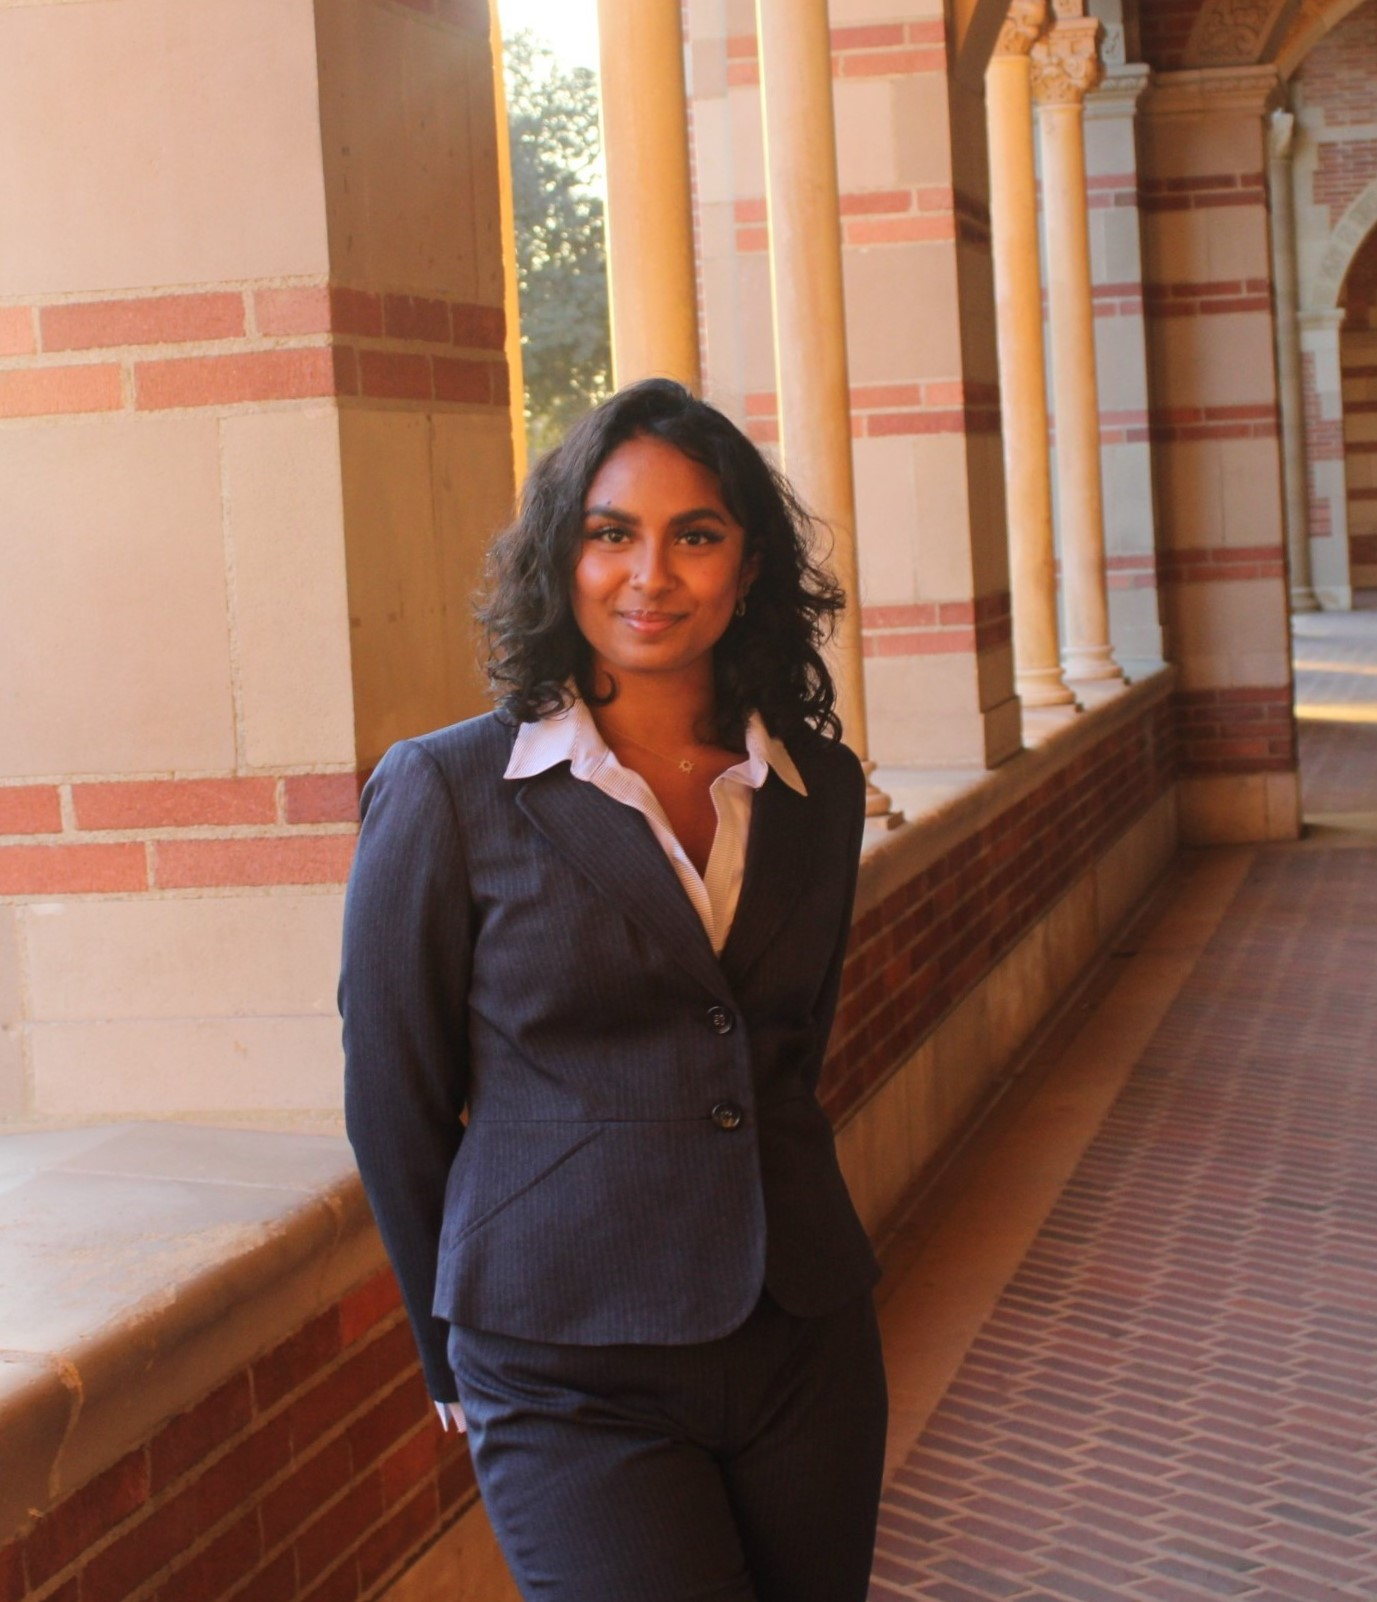
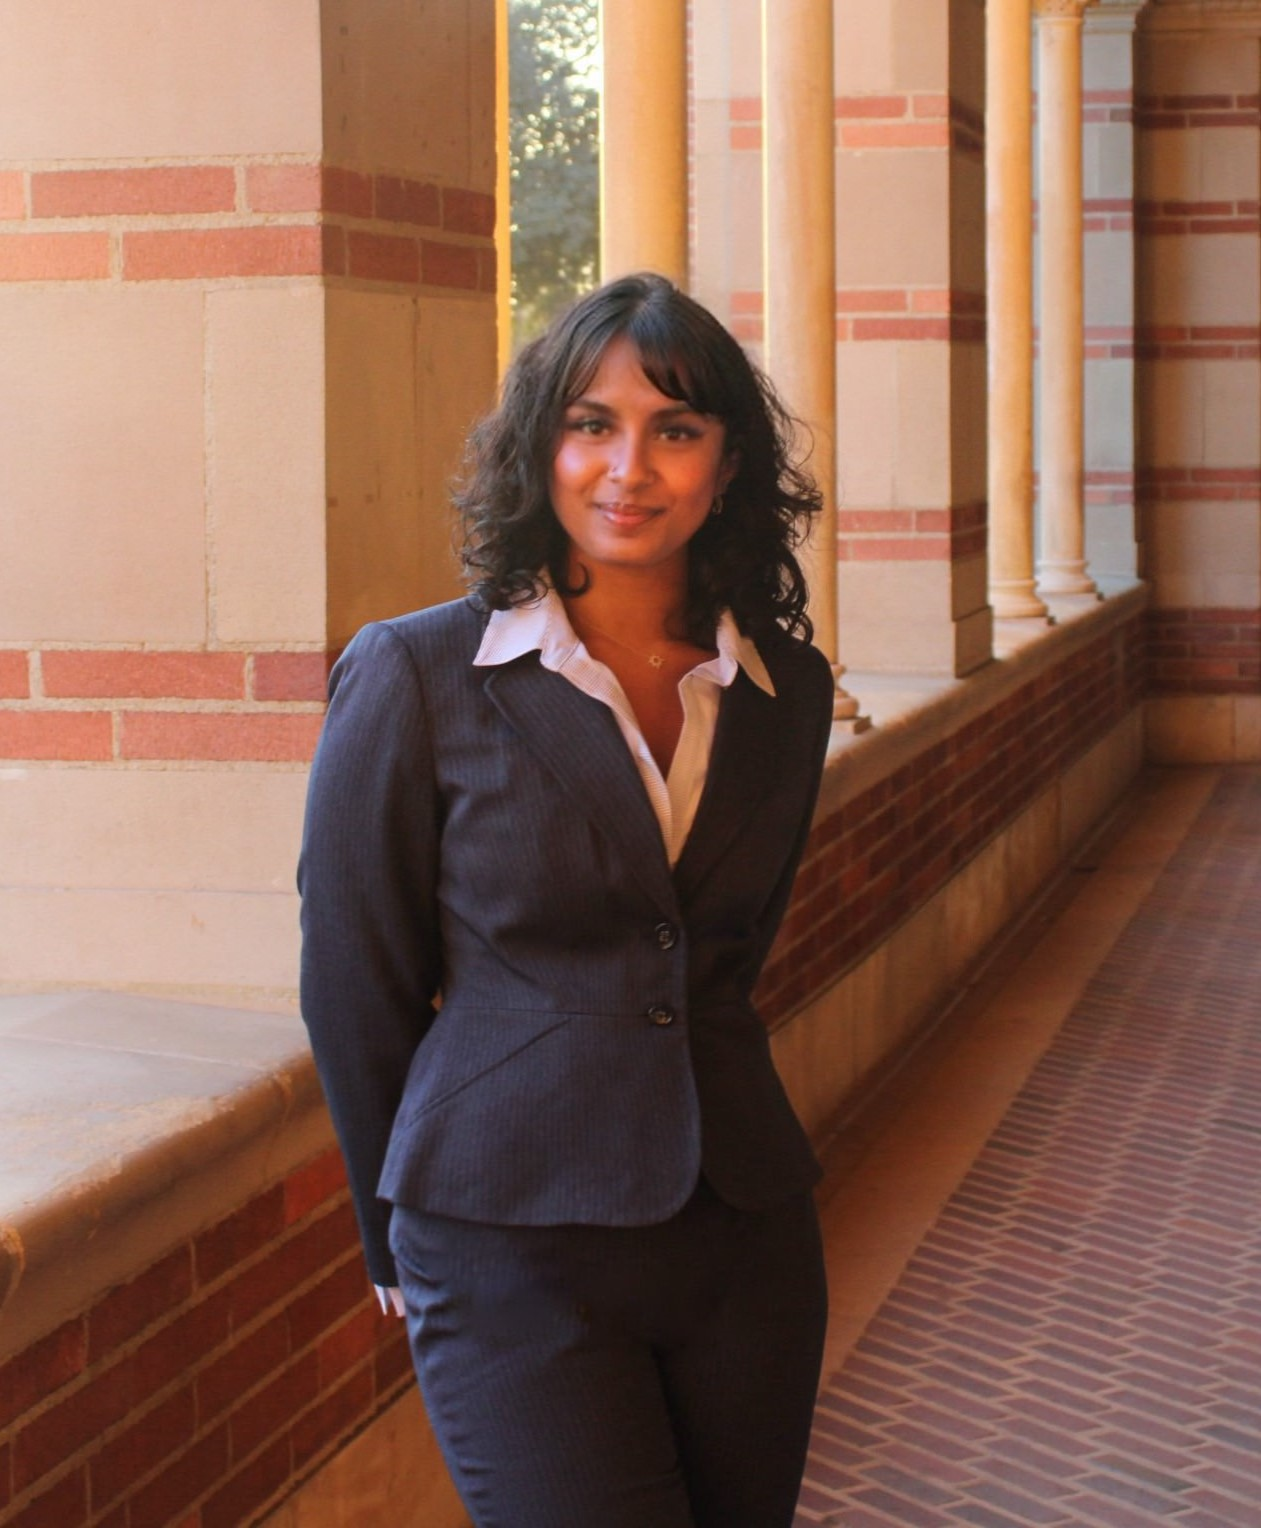
color scheme, typo error, and pfp update

diff --git a/src/components/icons/loader.js b/src/components/icons/loader.js
@@ -1,29 +1,66 @@
 import React from 'react';
+import styled from 'styled-components';
 
-const IconLoader = () => (
-  <svg id="logo" xmlns="http://www.w3.org/2000/svg" viewBox="0 0 100 100">
-    <title>Loader Logo</title>
-    <g>
-      <g id="B" transform="translate(11.000000, 5.000000)">
-        <path
-          d="M45.691667,45.15 C48.591667,46.1 50.691667,48.95 50.691667,52.2 C50.691667,57.95 46.691667,61 40.291667,61 L28.541667,61 L28.541667,30.3 L39.291667,30.3 C45.691667,30.3 49.691667,33.15 49.691667,38.65 C49.691667,41.95 47.941667,44.35 45.691667,45.15 Z M33.591667,43.2 L39.241667,43.2 C42.791667,43.2 44.691667,41.85 44.691667,38.95 C44.691667,36.05 42.791667,34.8 39.241667,34.8 L33.591667,34.8 L33.591667,43.2 Z M33.591667,47.5 L33.591667,56.5 L40.191667,56.5 C43.691667,56.5 45.591667,54.75 45.591667,52 C45.591667,49.2 43.691667,47.5 40.191667,47.5 L33.591667,47.5 Z"
-          fill="currentColor"
-        />
-      </g>
-      <path
-        stroke="currentColor"
-        strokeWidth="5"
-        strokeLinecap="round"
-        strokeLinejoin="round"
-        d="M 50, 5
-                  L 11, 27
-                  L 11, 72
-                  L 50, 95
-                  L 89, 73
-                  L 89, 28 z"
-      />
-    </g>
-  </svg>
+const AnimatedHeart = styled.svg`
+  width: 100px;
+  height: 100px;
+  stroke: currentColor;
+  fill: none;
+
+  /* Animate the Heart Stroke */
+  .heart-path {
+    stroke-dasharray: 300;
+    stroke-dashoffset: 300;
+    animation: draw 2s linear forwards;
+  }
+
+  /* Animate the FS Text Stroke */
+  .fs-text {
+    stroke-dasharray: 100;
+    stroke-dashoffset: 100;
+    animation: draw 1.5s ease-out 1s forwards;
+  }
+
+  @keyframes draw {
+    from {
+      stroke-dashoffset: 300;
+    }
+    to {
+      stroke-dashoffset: 0;
+    }
+  }
+`;
+
+const IconFSHeart = () => (
+  <AnimatedHeart
+    xmlns="http://www.w3.org/2000/svg"
+    viewBox="0 0 100 100"
+    strokeWidth="3"
+    strokeLinecap="round"
+    strokeLinejoin="round"
+    className="feather feather-heart">
+    <title>FS in Heart</title>
+
+    {/* Heart Shape */}
+    <path
+      className="heart-path"
+      d="M50 90 L10 50 C-10 20 30 -10 50 20 C70 -10 110 20 90 50 L50 90 Z"
+    />
+
+    {/* FS Letters Inside the Heart */}
+    <text
+      x="50"
+      y="55"
+      textAnchor="middle"
+      fontSize="20"
+      stroke="currentColor"
+      fill="none"
+      fontFamily="Arial, sans-serif"
+      fontWeight="bold"
+      className="fs-text">
+      FS
+    </text>
+  </AnimatedHeart>
 );
 
-export default IconLoader;
+export default IconFSHeart;

diff --git a/src/styles/variables.js b/src/styles/variables.js
@@ -2,17 +2,17 @@ import { css } from 'styled-components';
 
 const variables = css`
   :root {
-    --dark-navy: #020c1b;
-    --navy: #0a192f;
-    --light-navy: #112240;
-    --lightest-navy: #233554;
-    --navy-shadow: rgba(2, 12, 27, 0.7);
-    --dark-slate: #495670;
-    --slate: #8892b0;
-    --light-slate: #a8b2d1;
-    --lightest-slate: #ccd6f6;
-    --white: #e6f1ff;
-    --green: #64ffda;
+    --dark-navy:rgb(10, 9, 26); /* Base */
+    --navy:#0D0C1D; /* Background */
+    --light-navy:rgb(23, 20, 49); oject Desc Block */
+    --lightest-navy:rgb(60, 53, 97);     
+    --navy-shadow:rgb(9, 8, 24); /* Shadow */
+    --dark-slate: #495670; 
+    --slate:rgb(135, 137, 179); /* Bio-Text */
+    --light-slate: #a8b2d1;     
+    --lightest-slate:rgb(205, 195, 211); /* Name */
+    --white: #e6f1ff;    
+    --green: #FF66B3; /* Greeting */
     --green-tint: rgba(100, 255, 218, 0.1);
     --pink: #f57dff;
     --blue: #57cbff;

diff --git a/src/components/sections/featured.js b/src/components/sections/featured.js
@@ -403,9 +403,11 @@ const Featured = () => {
                 </div>
 
                 <div className="project-image">
-                  <a href={external ? external : github ? github : '#'}>
-                    <GatsbyImage image={image} alt={title} className="img" />
-                  </a>
+                  <div className="laptop-mockup">
+                    <a href={external ? external : github ? github : '#'}>
+                      <GatsbyImage image={image} alt={title} className="img" />
+                    </a>
+                  </div>
                 </div>
               </StyledProject>
             );

diff --git a/src/components/nav.js b/src/components/nav.js
@@ -17,7 +17,7 @@ const StyledHeader = styled.header`
   padding: 0px 50px;
   width: 100%;
   height: var(--nav-height);
-  background-color: rgba(10, 25, 47, 0.85);
+  background-color: rgba(38, 10, 47, 0.85);
   filter: none !important;
   pointer-events: auto !important;
   user-select: auto !important;
@@ -38,7 +38,7 @@ const StyledHeader = styled.header`
       css`
         height: var(--nav-scroll-height);
         transform: translateY(0px);
-        background-color: rgba(10, 25, 47, 0.85);
+        background-color: rgba(38, 10, 47, 0.85);
         box-shadow: 0 10px 30px -10px var(--navy-shadow);
       `};
 

diff --git a/src/components/sections/about.js b/src/components/sections/about.js
@@ -81,8 +81,6 @@ const StyledPic = styled.div`
     .img {
       position: relative;
       border-radius: var(--border-radius);
-      mix-blend-mode: multiply;
-      filter: grayscale(100%) contrast(1);
       transition: var(--transition);
     }
 

diff --git a/src/config.js b/src/config.js
@@ -1,5 +1,5 @@
 module.exports = {
-  email: 'fizaxsheikh@gmail.com',
+  email: 'fizaxsheikh@g.ucla.edu',
 
   socialMedia: [
     {

diff --git a/content/featured/Sanctuary/index.md b/content/featured/Sanctuary/index.md
@@ -9,4 +9,4 @@ tech:
   - Node.js
 ---
 
-An app designed to empowers women with real-time safety tools and a supportive community. Features include an emergency button, ride-share tracking, fake call deterrents, Safe Walk pairing, and geo-fencing alerts. Sanctuary ensures security is available to all.
+An app designed to empower women with real-time safety tools and a supportive community. Features include an emergency button, ride-share tracking, fake call deterrents, Safe Walk pairing, and geo-fencing alerts. Sanctuary ensures security is available to all.

diff --git a/content/jobs/Xoom Wireless/index.md b/content/jobs/Xoom Wireless/index.md
@@ -4,7 +4,6 @@ title: 'Operations and Client Relations Assistant Manager '
 company: 'Xoom Wireless'
 location: 'Oklahoma City, OK'
 range: 'Aug 2017 - Jun 2023'
-url: 'https://younginvincibles.org/introducing-yi-wests-fall-2023-young-advocates/'
 ---
 
 - Collaborated with cross-functional teams to ensure the smooth running of day-to-day operations, assisted in marketing and advertising strategies to drive business growth, supported upper management in strategic decisions, and eﬀectively managed client relationships.
